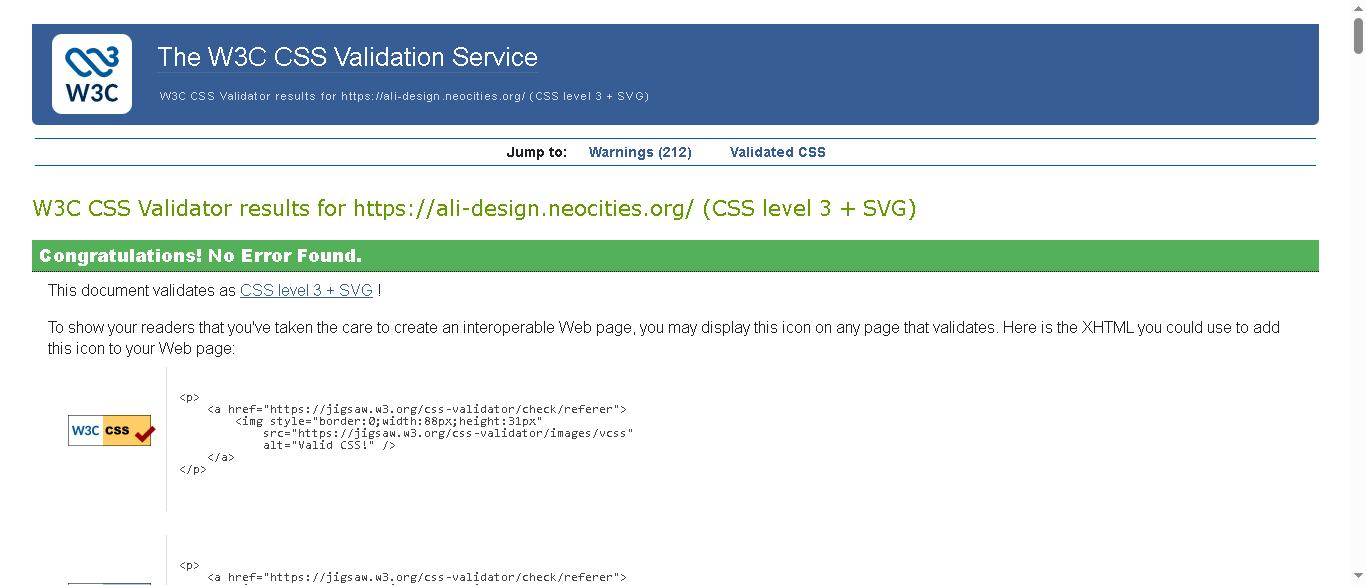
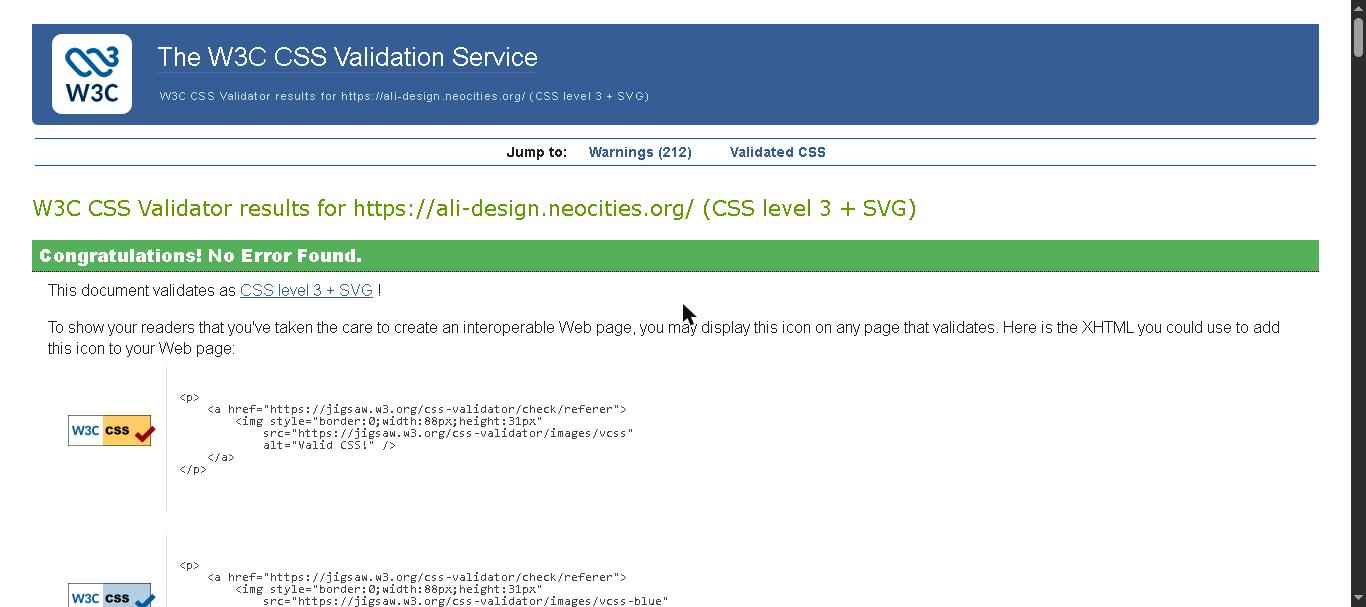
Re-validate HTML and CSS on the redeployed live site
The validation screenshots were taken before the November fixes changed
the HTML and CSS. Re-ran the Nu HTML Checker (valid, no errors) and the
W3C CSS Validator (no errors) on the live site and replaced both
screenshots and the README text.

diff --git a/Readme.md b/Readme.md
@@ -195,13 +195,15 @@ Thanks to my assessor, Yassin Hassan, for clear feedback that helped me improve 
 ## 6. Testing
 
 ### Code validation
-**HTML:** W3C Nu HTML Checker, tested on the live site. Result: no errors or warnings.
+Both validators were re-run on the live site on 13 November 2026, after the fixes were redeployed.
 
-![W3C Nu HTML Checker result for ali-design.neocities.org showing no errors or warnings](portfolio/img/html-validation.jpeg)
+**HTML:** Nu HTML Checker (the same checker the W3C uses, at html5.validator.nu), tested on the live site. Result: the document is valid, with no errors or warnings.
 
-**CSS:** W3C Jigsaw CSS Validator (CSS level 3 + SVG), tested on the live site. Result: no errors.
+![Nu HTML Checker result for ali-design.neocities.org saying the document is valid HTML5](portfolio/img/html-validation.jpeg)
 
-![W3C CSS Validator result for ali-design.neocities.org showing no errors](portfolio/img/css-validation.jpeg)
+**CSS:** W3C Jigsaw CSS Validator (CSS level 3 + SVG), tested on the live site. Result: no errors. The warnings all come from the template and library CSS (for example vendor prefixes in Bootstrap), not from `custom.css`.
+
+![W3C CSS Validator result for ali-design.neocities.org showing Congratulations, no error found](portfolio/img/css-validation.jpeg)
 
 ### User story verification
 | # | User story | How it is met | Evidence | Result |
